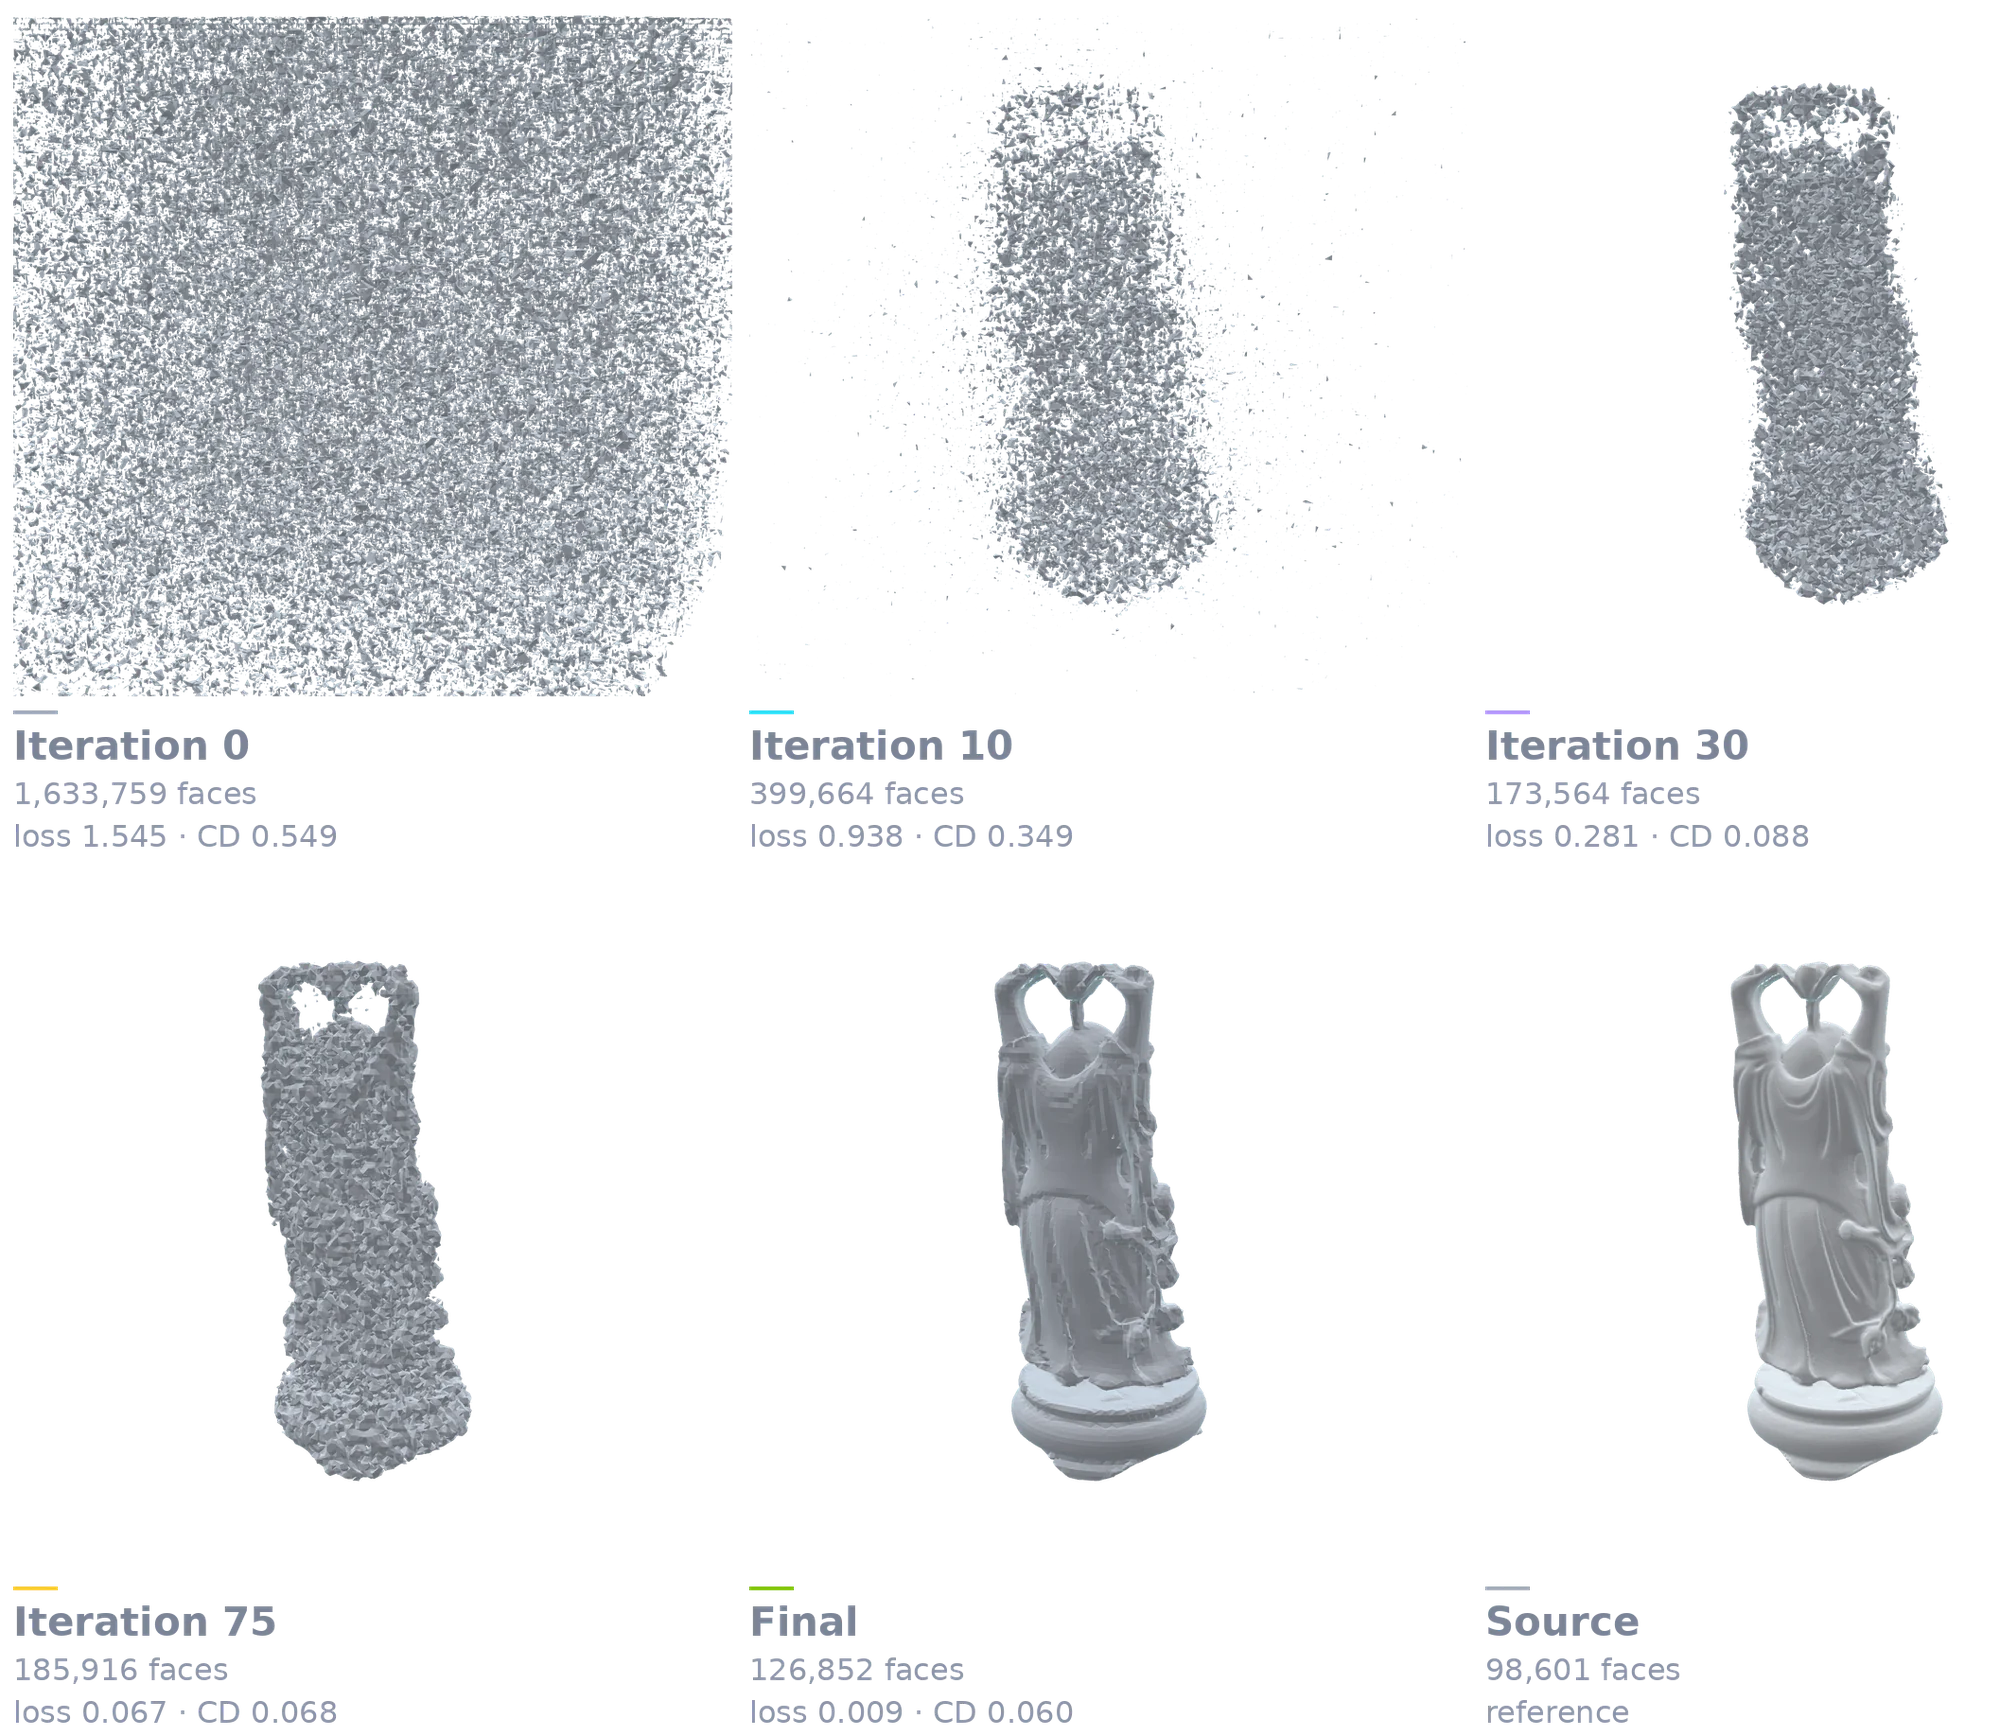
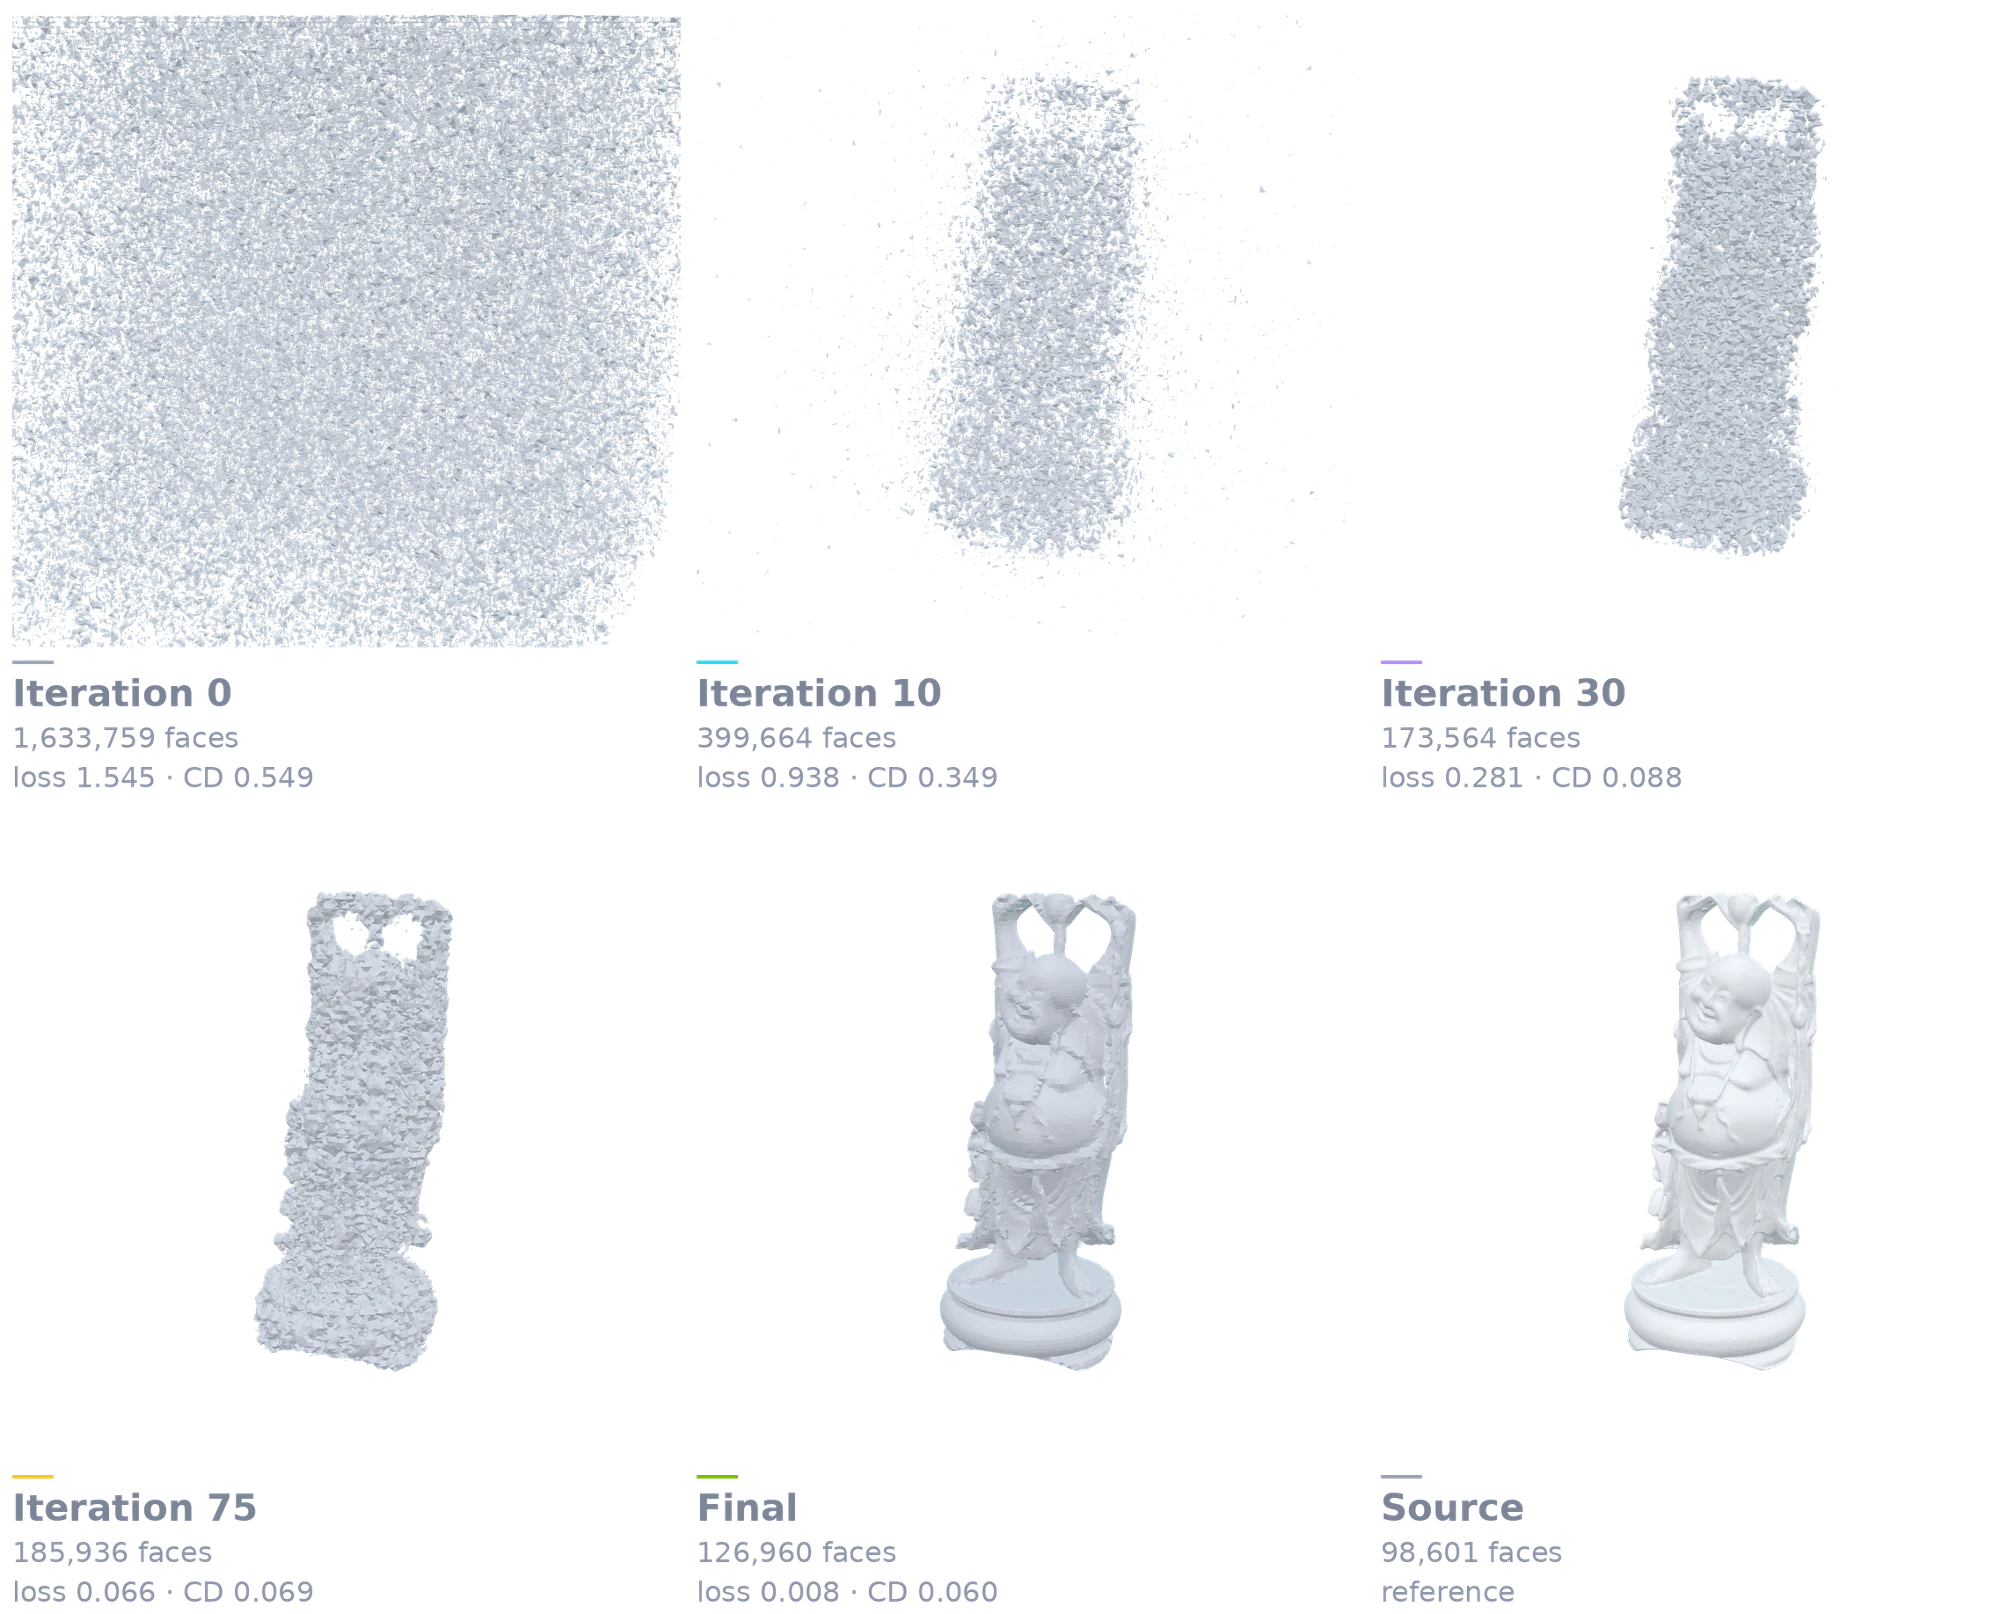
fix(docs): turn the Happy Buddha to face the camera
The showcase camera sat at azimuth 205, which is behind the statue: the
final panel showed the back of the robe, where the surface is broad and
featureless and there is nothing to tell a converged reconstruction from a
rough one. Rotating 180 degrees to azimuth 25 puts the face, belly and the
attendant figures in view, so the last two panels now show detail the
optimisation actually had to recover.

Re-measured on the new view: 1,633,759 faces at loss 1.545 and Chamfer 0.549
falling to 126,960 faces at loss 0.008 and Chamfer 0.060.

Claude-Session: https://claude.ai/code/session_01Feb3yoQjHYvNcwnLccMKf4

diff --git a/docs/_figures/make_figures.py b/docs/_figures/make_figures.py
@@ -1310,7 +1310,7 @@ def fig_fix_normals(rnd):
     )
 
 
-AZ_DIFF = 205
+AZ_DIFF = 25
 
 #: The optimisation the figure runs, mirroring examples/differentiable_rendering
 #: with --method mc. Kept here rather than read from the example so the numbers
